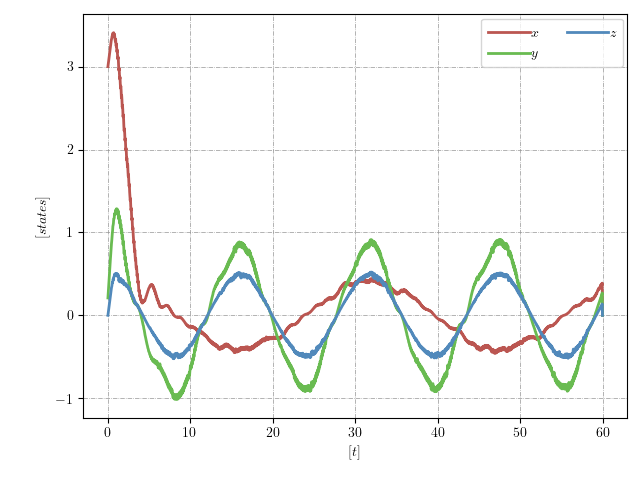
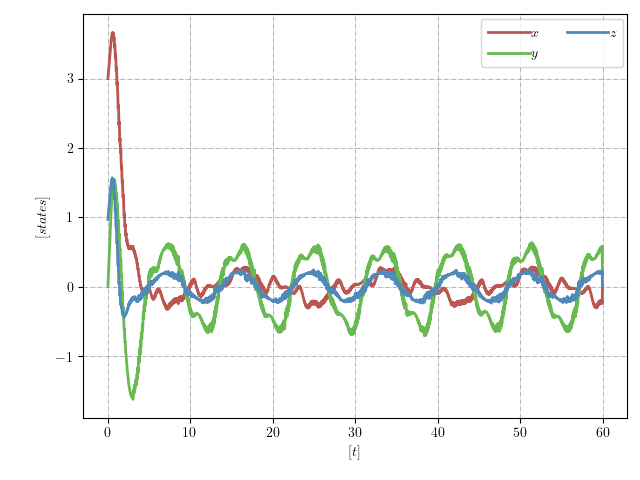
Test Marcos

Changed region(s): [[0.1562, 0.0625, 0.9688, 0.8438], [0.0938, 0.125, 0.125, 0.1562]]

diff --git a/T_UAV_simple_Adaptive.py b/T_UAV_simple_Adaptive.py
@@ -18,6 +18,34 @@ from Functions_DinamicControl import calc_G, calc_C, calc_M, calc_J, limitar_ang
 from fancy_plots import plot_pose, plot_error, plot_time
 import P_UAV_simple
 
+
+def adaptive_OPTI(vcp, vc, v, x, k3, k4, L, ts):
+    mu_l = v[0]
+    mu_m = v[1]
+    mu_n = v[2]
+    w = v[3]
+    a = L[0]
+    b = L[1]
+
+    K3 = k3 * np.eye(len(v))
+    K4 = k4 * np.eye(len(v))
+
+    ve = vc - v
+    control = vcp + np.dot(K3, np.tanh(np.dot(np.linalg.inv(K3), np.dot(K4, ve))))
+    s1, s2, s3, s4 = control[0], control[1], control[2], control[3]
+
+    Y = np.array([[s1, b * s4, 0, 0, 0, 0, 0, 0, 0, mu_l, mu_m * w, a * w ** 2, 0, 0, 0, 0, 0, 0, 0],
+                  [0, 0, s2, a * s4, 0, 0, 0, 0, 0, 0, 0, 0, mu_l * w, mu_m, b * w ** 2, 0, 0, 0, 0],
+                  [0, 0, 0, 0, s3, 0, 0, 0, 0, 0, 0, 0, 0, 0, 0, mu_n, 0, 0, 0],
+                  [0, 0, 0, 0, 0, b * s1, a * s2, s4 * (a ** 2 + b ** 2), s4, 0, 0, 0, 0, 0, 0, 0, a * mu_l * w, b * mu_m * w, w]])
+
+    K = 0.5 * np.eye(19)
+    xp = np.dot(np.linalg.inv(K), np.dot(Y.T, ve))
+    x = x + xp * ts
+    vref = np.dot(Y, x)
+
+    return vref, x
+
 def main(vel_pub, vel_msg ):
 
     print("OK, controller is running!!!")
@@ -37,21 +65,10 @@ def main(vel_pub, vel_msg ):
     psidp = np.zeros(samples)
 
     #GANANCIAS DEL CONTROLADOR
-    # GANANCIAS DEL CONTROLADOR
-    K1 = np.diag([1.0167, 1.4292, 2.0432, 2.4993])
-    K2 = np.diag([2.7479, 3.1665, 3.7262, 2.6893])
-    K3 = np.diag([2.4438, 2.2930, 0.7112, 1.2569])
-    K4 = np.diag([2.8308, 3.0125, 1.1317, 0.5383])
-    
-    #K3 = np.diag([0.6249 ,   3.1950  ,  0.5134 ,   1.1815])
-    #K4 = np.diag([1.9827,   1.8119   , 0.9784 ,   0.3459])
-    
-
-    # GANANCIAS DEL CONTROLADOR
-   # K1 = np.diag([1.9830, 1.9884, 0.9111, 2.5268])
-   # K2 = np.diag([1.6783, 1.1509, 0.9200, 1.6709])
-   # K3 = np.diag([0.9718, 1.9620, 0.0001, 0.9760])
-   # K4 = np.diag([0.9694, 0.4066, 1.5302, 0.4516])
+    K1 = np.diag([1.9925, 2.0686, 1.7324, 1.5144])
+    K2 = np.diag([1.1157, 1.1583, 1.0436, 1.0407])
+    K3 = np.diag([1.1646, 1.1748, 1.1676, 1.1667])
+    K4 = np.diag([1.7175, 1.6544, 1.7160, 0.8236])
 
     
     #K2 = np.diag([1,1,1,1])
@@ -59,7 +76,7 @@ def main(vel_pub, vel_msg ):
    
     
     #TAREA DESEADA
-    value = 9
+    value = 8
     xd = lambda t: 4 * np.sin(value*0.04*t) + 3
     yd = lambda t: 4 * np.sin(value*0.08*t)
     zd = lambda t: 2 * np.sin(value*0.08*t) + 6
@@ -96,6 +113,19 @@ def main(vel_pub, vel_msg ):
     ros_rate = 30  # Tasa de ROS en Hz
     rate = rospy.Rate(ros_rate)  # Crear un objeto de la clase rospy.Rate
 
+    #CHI
+    chi_est = np.zeros((19, t.shape[0]), dtype = np.double)
+    K3 = 1 # Define tus valores de K1
+    K4 = 1  # Define tus valores de K2
+    a = 1
+    b = 2
+    c = 3
+    L = [a, b, c]
+    
+
+     # MODELO CINEMATICO Y DINAMICO
+    chi = [0.6756,    1.0000,    0.6344,    1.0000,    0.4080,    1.0000,    1.0000,    1.0000,    0.2953,    0.5941,   -0.8109,    1.0000,    0.3984,    0.7040,    1.0000,    0.9365,    1.0000, 1.0000,    0.9752]# Position
+    chi_est[:, 1] = chi
 
     P_UAV_simple.main(vel_pub, vel_msg )
 
@@ -111,9 +141,9 @@ def main(vel_pub, vel_msg ):
         #INICIO DEL TIEMPO DE BUCLE
         tic = time.time()
 
-        # MODELO CINEMATICO Y DINAMICO
-        chi = [0.6756,    1.0000,    0.6344,    1.0000,    0.4080,    1.0000,    1.0000,    1.0000,    0.2953,    0.5941,   -0.8109,    1.0000,    0.3984,    0.7040,    1.0000,    0.9365,    1.0000, 1.0000,    0.9752]# Position
-        
+       
+
+
         J = calc_J(x[:, k])
         M = calc_M(chi, a, b)
         C = calc_C(chi, a, b, x[:,k])
@@ -122,8 +152,8 @@ def main(vel_pub, vel_msg ):
         # CONTROLADOR CINEMATICO
         he[:, k] = ref[0:4, k] - x[0:4, k]
         he[3, k] =  limitar_angulo(he[3, k])
-        uc[:, k] = np.linalg.pinv(J) @ (ref[4:8, k] + K2 @ np.tanh(np.linalg.inv(K2) @ K1 @ he[:, k]))
-        #uc[:, k] = np.linalg.pinv(J) @ (K1 @ np.tanh(K2 @ he[:, k]))
+        #uc[:, k] = np.linalg.pinv(J) @ (ref[4:8, k] + K1 @ np.tanh(K2 @ he[:, k]))
+        uc[:, k] = np.linalg.pinv(J) @ (K1 @ np.tanh(K2 @ he[:, k]))
   
         if k > 0:
             vcp = (uc[:, k] - uc[:, k - 1]) / ts
@@ -131,9 +161,12 @@ def main(vel_pub, vel_msg ):
             vcp = uc[:, k] / ts
      
         #COMPENSADOR DINAMICO
-        ue[:, k] = uc[:, k] - x[4:8, k]
-        control = 0.0*vcp + K4 @ np.tanh(np.linalg.inv(K4) @ K3 @ ue[:, k])
-        u[:, k] = M @ control + C @ uc[:, k]
+        #ue[:, k] = uc[:, k] - x[4:8, k]
+        #control = 0*vcp + K3 @ np.tanh(np.linalg.inv(K3) @ K4 @ ue[:, k])
+        #u[:, k] = M @ control + C @ uc[:, k]
+
+        u[:, k], chi_est[:, k + 1] = adaptive_OPTI(0*vcp, uc[:, k], x[4:8, k], chi_est[:, k], K3, K4, L, ts)
+
 
         #ENVIO DE VELOCIDADES AL DRON
         send_velocity_control(u[:, k], vel_pub, vel_msg )
@@ -163,14 +196,14 @@ def main(vel_pub, vel_msg ):
         pwd = os.getcwd()  # Establece la ruta local como pwd
     
     #SELECCION DEL EXPERIMENTO
-    Test = "Real"
+    Test = "HiL"
 
     if Test == "MiL":
-        name_file = "Com_din_MiL.mat"
+        name_file = "Adaptive_MiL.mat"
     elif Test == "HiL":
-        name_file = "Com_din_HiL.mat"
+        name_file = "Adaptive_HiL.mat"
     elif Test == "Real":
-        name_file = "Com_din_Real.mat"
+        name_file = "Adaptive_Real.mat"
     
     save = True
     if save==True:
@@ -179,7 +212,8 @@ def main(vel_pub, vel_msg ):
             'ref': ref,
             'uc_input': uc,
             'u_input': u,
-            't_time': t })
+            't_time': t,
+            'chi_adaptive': chi_est})
 
 
 if __name__ == '__main__':

diff --git a/T_UAV_simple_kinetic.py b/T_UAV_simple_kinetic.py
@@ -22,7 +22,7 @@ def main(vel_pub, vel_msg ):
 
     print("OK, controller is running!!!")
     
-    timerun = 60  # Segundos
+    timerun = 60 # Segundos
     hz = 30  # Frecuencia de actualización
     ts = 1 / hz
     samples = timerun * hz  # datos de muestreo totales
@@ -37,21 +37,12 @@ def main(vel_pub, vel_msg ):
     psidp = np.zeros(samples)
 
     #GANANCIAS DEL CONTROLADOR
-    # GANANCIAS DEL CONTROLADOR
     K1 = np.diag([1.0167, 1.4292, 2.0432, 2.4993])
     K2 = np.diag([2.7479, 3.1665, 3.7262, 2.6893])
-    K3 = np.diag([2.4438, 2.2930, 0.7112, 1.2569])
-    K4 = np.diag([2.8308, 3.0125, 1.1317, 0.5383])
-    
-    #K3 = np.diag([0.6249 ,   3.1950  ,  0.5134 ,   1.1815])
-    #K4 = np.diag([1.9827,   1.8119   , 0.9784 ,   0.3459])
-    
+
 
     # GANANCIAS DEL CONTROLADOR
-   # K1 = np.diag([1.9830, 1.9884, 0.9111, 2.5268])
-   # K2 = np.diag([1.6783, 1.1509, 0.9200, 1.6709])
-   # K3 = np.diag([0.9718, 1.9620, 0.0001, 0.9760])
-   # K4 = np.diag([0.9694, 0.4066, 1.5302, 0.4516])
+
 
     
     #K2 = np.diag([1,1,1,1])
@@ -59,7 +50,7 @@ def main(vel_pub, vel_msg ):
    
     
     #TAREA DESEADA
-    value = 9
+    value = 8
     xd = lambda t: 4 * np.sin(value*0.04*t) + 3
     yd = lambda t: 4 * np.sin(value*0.08*t)
     zd = lambda t: 2 * np.sin(value*0.08*t) + 6
@@ -124,19 +115,10 @@ def main(vel_pub, vel_msg ):
         he[3, k] =  limitar_angulo(he[3, k])
         uc[:, k] = np.linalg.pinv(J) @ (ref[4:8, k] + K2 @ np.tanh(np.linalg.inv(K2) @ K1 @ he[:, k]))
         #uc[:, k] = np.linalg.pinv(J) @ (K1 @ np.tanh(K2 @ he[:, k]))
-  
-        if k > 0:
-            vcp = (uc[:, k] - uc[:, k - 1]) / ts
-        else:
-            vcp = uc[:, k] / ts
-     
-        #COMPENSADOR DINAMICO
-        ue[:, k] = uc[:, k] - x[4:8, k]
-        control = 0.0*vcp + K4 @ np.tanh(np.linalg.inv(K4) @ K3 @ ue[:, k])
-        u[:, k] = M @ control + C @ uc[:, k]
+          
 
         #ENVIO DE VELOCIDADES AL DRON
-        send_velocity_control(u[:, k], vel_pub, vel_msg )
+        send_velocity_control(uc[:, k], vel_pub, vel_msg )
 
         #LECTURA DE ODOMETRIA MODELO SIMPLIFICADO
         x[:, k+1] = get_odometry_simple()
@@ -166,11 +148,11 @@ def main(vel_pub, vel_msg ):
     Test = "Real"
 
     if Test == "MiL":
-        name_file = "Com_din_MiL.mat"
+        name_file = "Kinetic_MiL.mat"
     elif Test == "HiL":
-        name_file = "Com_din_HiL.mat"
+        name_file = "Kinetic_HiL.mat"
     elif Test == "Real":
-        name_file = "Com_din_Real.mat"
+        name_file = "Kinetic_Real.mat"
     
     save = True
     if save==True:
@@ -178,7 +160,6 @@ def main(vel_pub, vel_msg ):
             'x_states': x,
             'ref': ref,
             'uc_input': uc,
-            'u_input': u,
             't_time': t })
 
 
